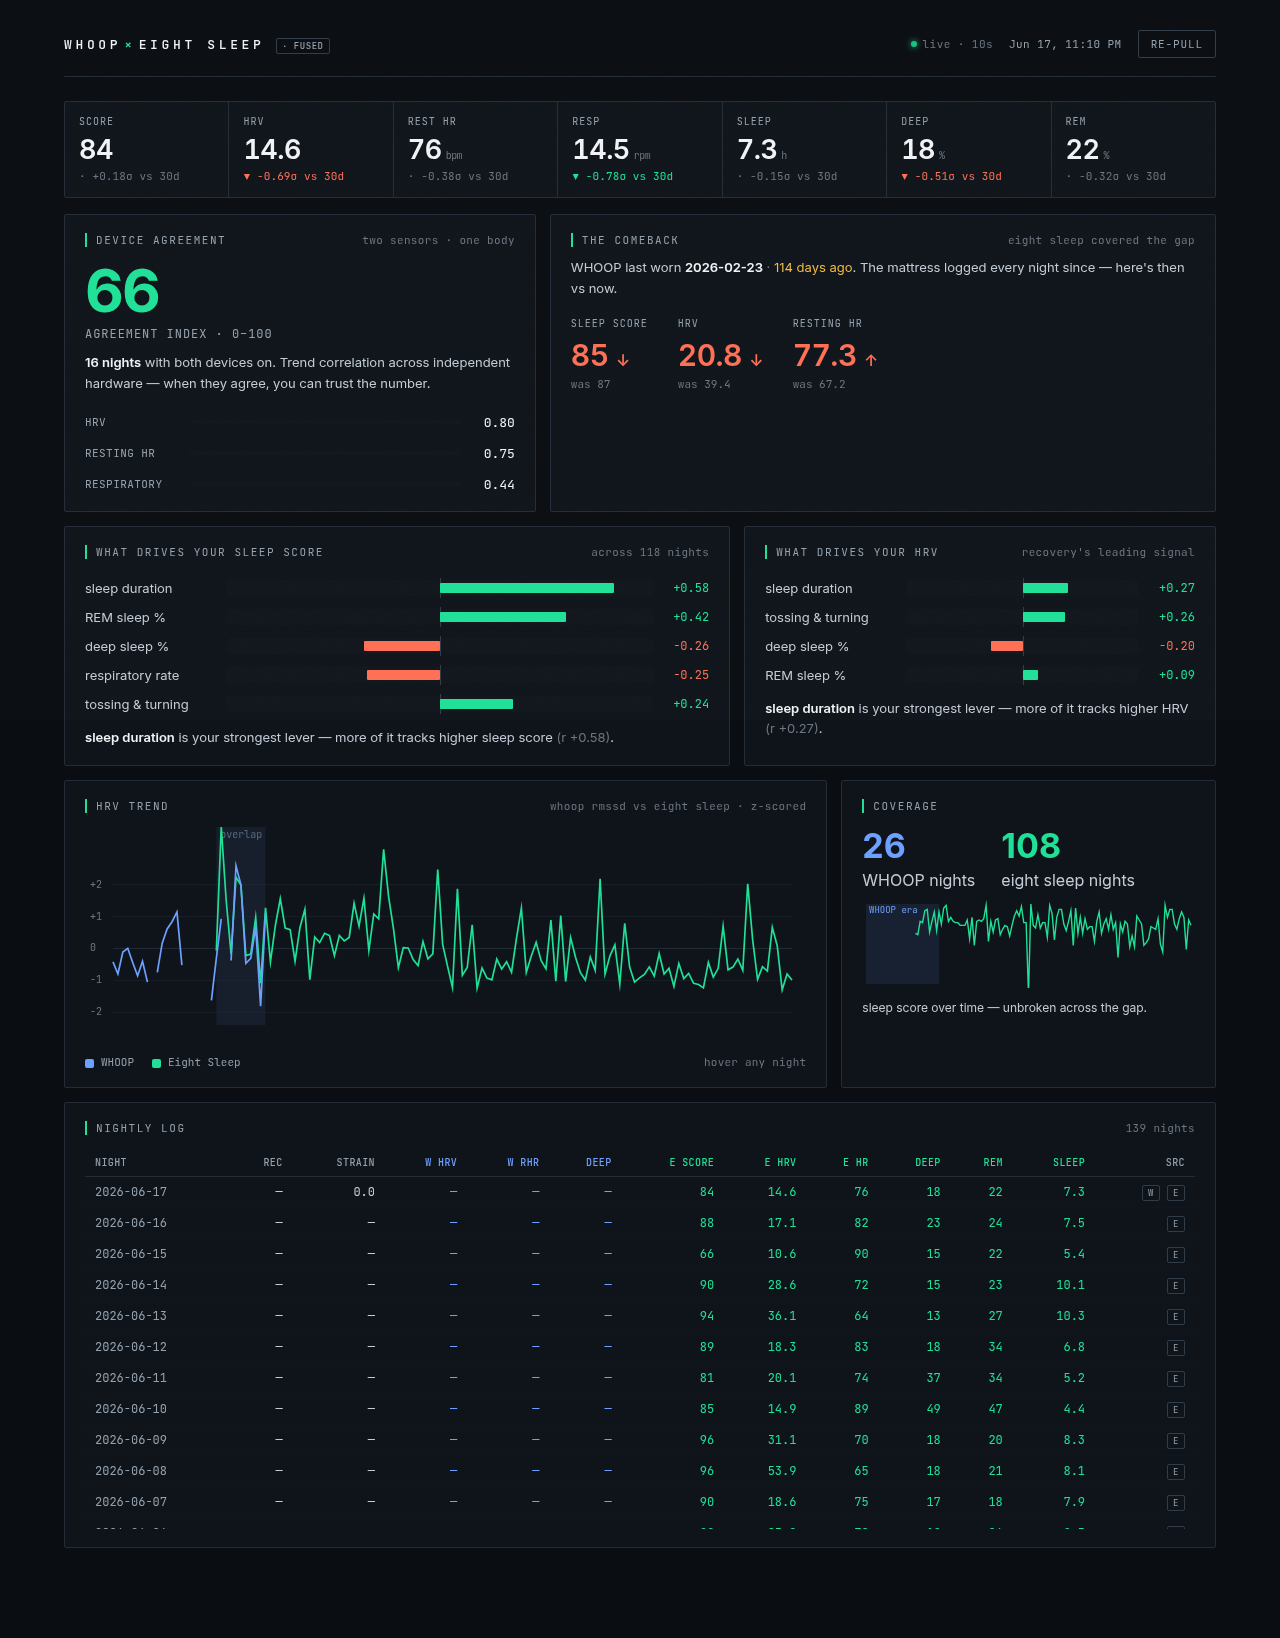
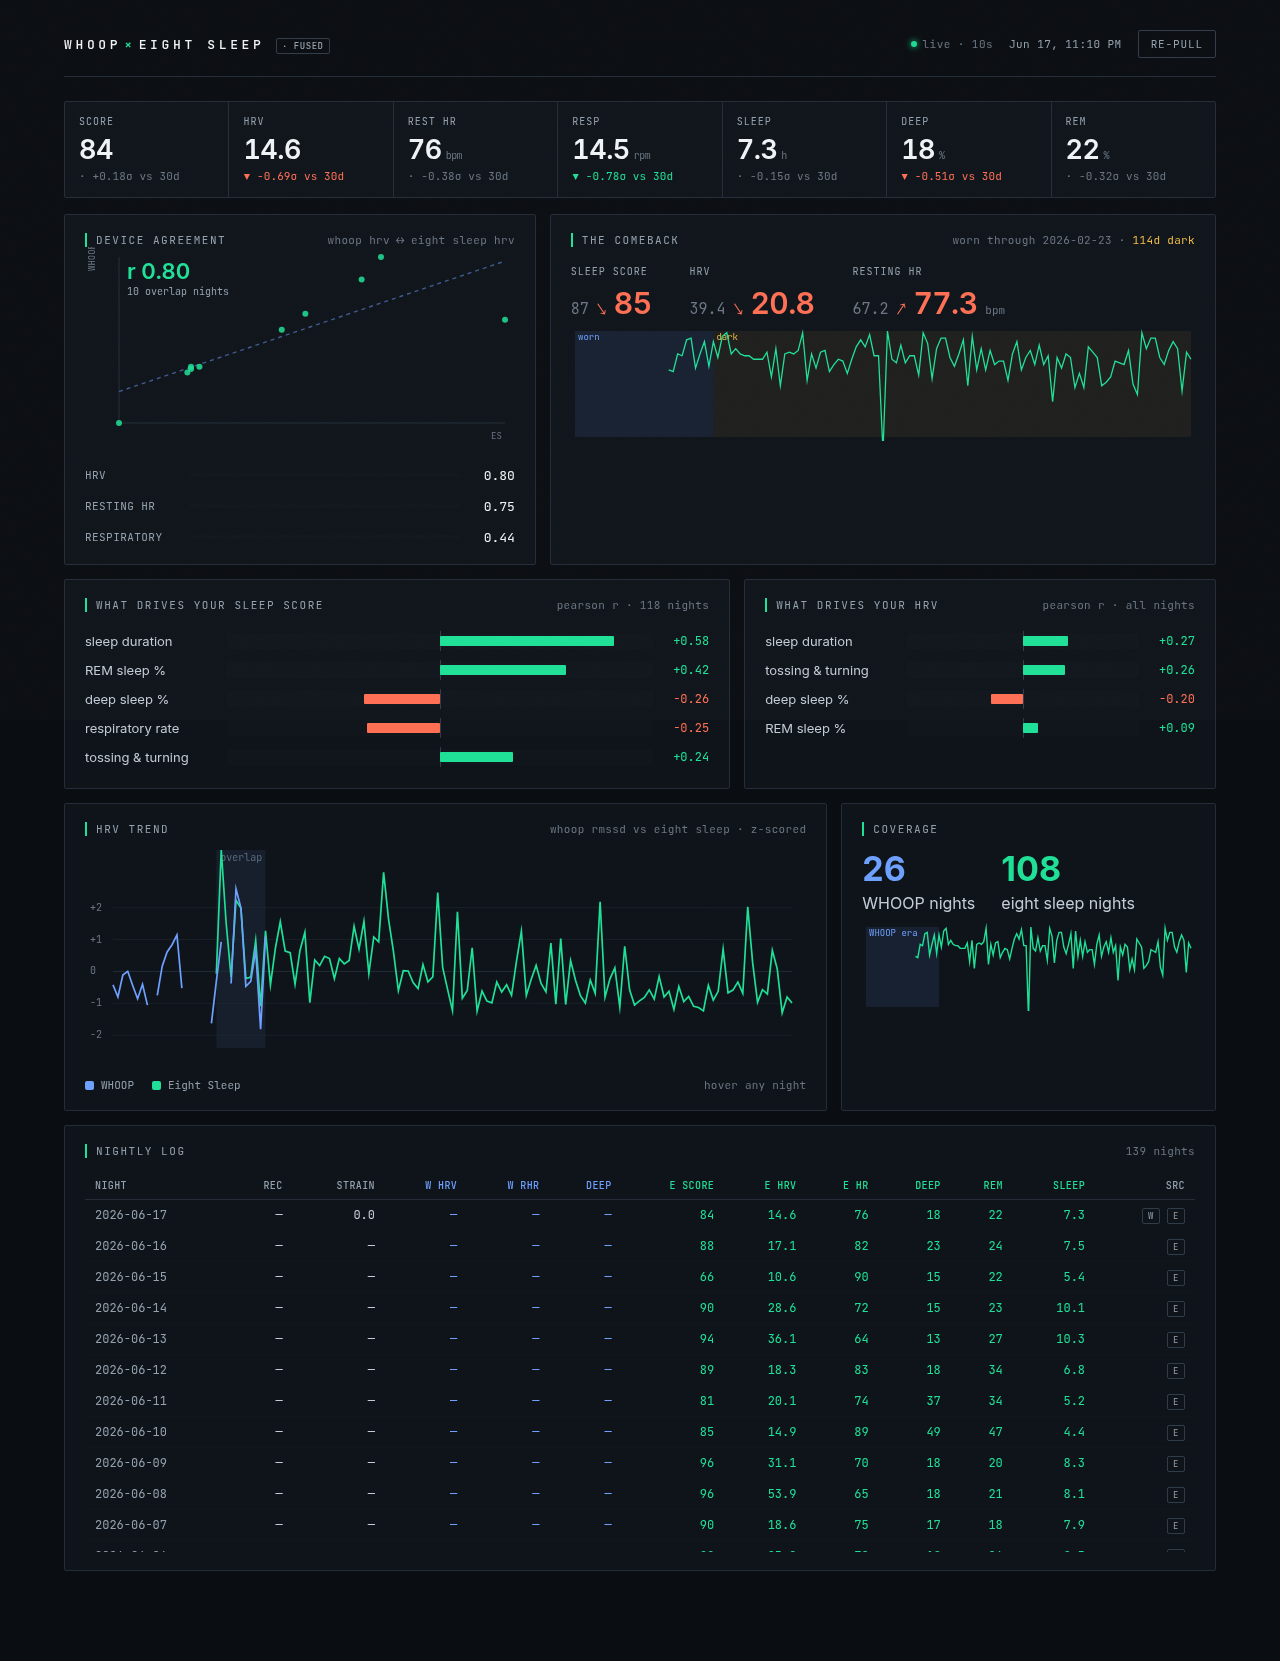
show don't tell: agreement scatter, then->now comeback, worn/dark windows; drop explanatory prose

diff --git a/projects/dashboard/static/index.html b/projects/dashboard/static/index.html
@@ -103,6 +103,11 @@
   .delta .dv { font-size: 30px; font-weight: 600; font-variant-numeric: tabular-nums; margin-top: 7px; letter-spacing: -0.02em; color: var(--ink); }
   .delta .dv .arr { font-size: 16px; }
   .delta .was { font-family: var(--mono); font-size: 11px; color: var(--faint); margin-top: 4px; }
+  .thennow { display: flex; align-items: baseline; gap: 8px; margin-top: 7px; }
+  .thennow .then { font-family: var(--mono); font-size: 15px; color: var(--faint); font-variant-numeric: tabular-nums; }
+  .thennow .ar { font-size: 15px; }
+  .thennow .dv { font-size: 30px; margin-top: 0; }
+  .thennow .u2 { font-family: var(--mono); font-size: 11px; color: var(--faint); }
   .up { color: var(--green) !important; } .down { color: var(--red) !important; } .flat { color: var(--dim) !important; }
 
   /* chart */
@@ -201,9 +206,8 @@ function buildSkeleton(data){
 
     <div class="grid">
       <div class="panel col-5">
-        <div class="label"><span>device agreement</span><span class="hint">two sensors · one body</span></div>
-        <div class="hero"><div class="n" id="agree">—</div><div class="u">agreement index · 0–100</div></div>
-        <div class="sub" id="agree_sub">—</div>
+        <div class="label"><span>device agreement</span><span class="hint">whoop hrv ↔ eight sleep hrv</span></div>
+        <canvas id="scatter" height="200"></canvas>
         <div class="bars">
           ${["hrv","resting_hr","respiratory"].map(k=>`
             <div class="bar-row"><span class="k">${k.replace("_"," ")}</span><span class="track"><span class="fill" id="bar_${k}"></span></span><span class="v" id="barv_${k}">—</span></div>`).join("")}
@@ -211,24 +215,25 @@ function buildSkeleton(data){
       </div>
 
       <div class="panel col-7">
-        <div class="label"><span>the comeback</span><span class="hint">eight sleep covered the gap</span></div>
-        <div class="sub" id="comeback_sub">—</div>
+        <div class="label"><span>the comeback</span><span class="hint" id="gap_hint">—</span></div>
         <div class="delta">
-          ${[["sleep score","ss"],["hrv","hv"],["resting hr","rh"]].map(([lbl,id])=>`
-            <div><div class="dk">${lbl}</div><div class="dv" id="cb_${id}">—</div><div class="was" id="cbw_${id}">—</div></div>`).join("")}
+          ${[["sleep score","ss",""],["hrv","hv",""],["resting hr","rh","bpm"]].map(([lbl,id,u])=>`
+            <div>
+              <div class="dk">${lbl}</div>
+              <div class="thennow"><span class="then" id="cbf_${id}">—</span><span class="ar" id="cba_${id}">→</span><span class="dv" id="cb_${id}">—</span><span class="u2">${u}</span></div>
+            </div>`).join("")}
         </div>
+        <canvas id="cbChart" height="120"></canvas>
       </div>
 
       <div class="panel col-7">
         <div class="label"><span>what drives your sleep score</span><span class="hint" id="drv_n">—</span></div>
         <div class="drivers" id="drv_sleep">${driverSkeleton(5)}</div>
-        <div class="sub" id="drv_sleep_sub">—</div>
       </div>
 
       <div class="panel col-5">
-        <div class="label"><span>what drives your hrv</span><span class="hint">recovery's leading signal</span></div>
+        <div class="label"><span>what drives your hrv</span><span class="hint">pearson r · all nights</span></div>
         <div class="drivers" id="drv_hrv">${driverSkeleton(4)}</div>
-        <div class="sub" id="drv_hrv_sub">—</div>
       </div>
 
       <div class="panel col-8">
@@ -248,7 +253,6 @@ function buildSkeleton(data){
           <div><div class="n" style="font-size:34px;font-weight:700;color:var(--green);line-height:1" id="cov_e">—</div><div class="u" style="margin-top:7px">eight sleep nights</div></div>
         </div>
         <canvas id="scoreChart" height="92"></canvas>
-        <div class="sub muted" style="font-size:12px">sleep score over time — unbroken across the gap.</div>
       </div>
 
       <div class="panel col-12">
@@ -296,32 +300,29 @@ function update(data){
     }
   }
 
-  // agreement
-  const ag=Math.round((trust.overall_agreement||0)*100);
-  setv("agree", ag);
-  setv("agree_sub_x", ""); // noop guard
-  $("#agree_sub").innerHTML = `<b>${trust.overlapping_nights} nights</b> with both devices on. Trend correlation across independent hardware — when they agree, you can trust the number.`;
+  // agreement — the scatter shows the correlation; bars quantify per metric
   for(const k of ["hrv","resting_hr","respiratory"]){
     const c=trust.correlations[k];
-    setw("bar_"+k, c==null?0:Math.round(c*100));
+    setw("bar_"+k, c==null?0:Math.round(Math.abs(c)*100));
     setv("barv_"+k, c==null?"—":c.toFixed(2));
   }
+  drawScatter(nights);
 
-  // comeback
+  // comeback — then → now, shown
   const c=comeback, base=c.baseline_eightsleep_avg, rec=c.recent7_eightsleep_avg;
-  $("#comeback_sub").innerHTML = c.gap
-    ? `WHOOP last worn <b>${c.gap.last_worn_before}</b> <span class="muted">·</span> <span style="color:var(--amber)">${c.gap.days} days ago</span>. The mattress logged every night since — here's then vs now.`
-    : "Both devices active.";
-  setDelta("ss", base.sleep_score, rec.sleep_score, 0, true);
-  setDelta("hv", base.hrv, rec.hrv, 1, true);
-  setDelta("rh", base.hr, rec.hr, 1, false);
+  if(c.gap){
+    const h=document.getElementById("gap_hint");
+    h.innerHTML = `worn through ${c.gap.last_worn_before} · <span style="color:var(--amber)">${c.gap.days}d dark</span>`;
+  }
+  setThenNow("ss", base.sleep_score, rec.sleep_score, 0, true);
+  setThenNow("hv", base.hrv, rec.hrv, 1, true);
+  setThenNow("rh", base.hr, rec.hr, 1, false);
+  drawComeback(nights);
 
-  // drivers
-  setv("drv_n", `across ${drivers.n} nights`);
+  // drivers — ranked bars say it; no sentence
+  setv("drv_n", `pearson r · ${drivers.n} nights`);
   fillDrivers("drv_sleep", drivers.sleep_score_drivers, 5);
   fillDrivers("drv_hrv", drivers.hrv_drivers, 4);
-  $("#drv_sleep_sub").innerHTML = driverNarr(drivers.sleep_score_drivers, "sleep score");
-  $("#drv_hrv_sub").innerHTML = driverNarr(drivers.hrv_drivers, "HRV");
 
   // coverage
   setv("cov_w", c.whoop_active_nights);
@@ -337,14 +338,16 @@ function update(data){
   drawScore(nights);
 }
 
-function setDelta(id, from, to, d, higherGood){
-  const el=document.getElementById("cb_"+id), wel=document.getElementById("cbw_"+id);
-  if(!el)return;
-  if(from==null||to==null){el.className="dv flat";el.textContent=fmt(to,d);wel.textContent="—";return;}
+function setThenNow(id, from, to, d, higherGood){
+  const fEl=document.getElementById("cbf_"+id), aEl=document.getElementById("cba_"+id), nEl=document.getElementById("cb_"+id);
+  if(!nEl)return;
+  fEl.textContent = from==null?"—":(+from).toFixed(d);
+  nEl.textContent = to==null?"—":(+to).toFixed(d);
+  if(from==null||to==null){nEl.className="dv flat";aEl.textContent="→";aEl.className="ar flat";return;}
   const diff=to-from, eps=d===0?0.5:0.05, flat=Math.abs(diff)<eps, up=diff>0, good=higherGood?up:!up;
-  el.className="dv "+(flat?"flat":good?"up":"down");
-  el.innerHTML=`${fmt(to,d)} <span class="arr">${flat?"→":up?"↑":"↓"}</span>`;
-  wel.textContent=`was ${fmt(from,d)}`;
+  const cls=flat?"flat":good?"up":"down";
+  nEl.className="dv "+cls; aEl.className="ar "+cls;
+  aEl.textContent=flat?"→":up?"↗":"↘";
 }
 
 function fillDrivers(containerId, list, max){
@@ -375,6 +378,54 @@ function driverNarr(ds, outcome){
   if(!ds||!ds.length) return "";
   const t=ds[0], dir=t.r>=0?"more":"less";
   return `<b>${t.label}</b> is your strongest lever — ${dir} of it tracks higher ${outcome} <span class="muted">(r ${t.r>=0?"+":""}${t.r.toFixed(2)})</span>.`;
+}
+
+// scatter: WHOOP HRV vs Eight Sleep HRV on overlap nights — correlation, shown
+function drawScatter(nights){
+  const cv=$("#scatter");if(!cv)return;const dpr=devicePixelRatio||1,W=cv.clientWidth,H=200;
+  cv.width=W*dpr;cv.height=H*dpr;const ctx=cv.getContext("2d");ctx.setTransform(dpr,0,0,dpr,0,0);
+  const pts=nights.filter(n=>n.whoop_hrv_ms!=null&&n.es_hrv!=null).map(n=>[n.es_hrv,n.whoop_hrv_ms]);
+  const pad={l:34,r:10,t:10,b:24};const iW=W-pad.l-pad.r,iH=H-pad.t-pad.b;
+  ctx.clearRect(0,0,W,H);
+  if(pts.length<2){ctx.fillStyle="#6b7682";ctx.font="11px 'JetBrains Mono'";ctx.fillText("not enough overlap yet",pad.l,H/2);return;}
+  const xs=pts.map(p=>p[0]),ys=pts.map(p=>p[1]);
+  const xmin=Math.min(...xs),xmax=Math.max(...xs),ymin=Math.min(...ys),ymax=Math.max(...ys);
+  const px=v=>pad.l+iW*(v-xmin)/((xmax-xmin)||1), py=v=>pad.t+iH*(1-(v-ymin)/((ymax-ymin)||1));
+  // axes
+  ctx.strokeStyle="#232c37";ctx.lineWidth=1;ctx.beginPath();ctx.moveTo(pad.l,pad.t);ctx.lineTo(pad.l,pad.t+iH);ctx.lineTo(pad.l+iW,pad.t+iH);ctx.stroke();
+  ctx.fillStyle="#6b7682";ctx.font="9px 'JetBrains Mono'";
+  ctx.fillText("ES",pad.l+iW-14,pad.t+iH+16);ctx.save();ctx.translate(10,pad.t+14);ctx.rotate(-Math.PI/2);ctx.fillText("WHOOP",0,0);ctx.restore();
+  // regression line
+  const n=pts.length,mx=xs.reduce((a,b)=>a+b)/n,my=ys.reduce((a,b)=>a+b)/n;
+  let num=0,den=0;for(let i=0;i<n;i++){num+=(xs[i]-mx)*(ys[i]-my);den+=(xs[i]-mx)**2;}
+  const slope=den?num/den:0,inter=my-slope*mx;
+  ctx.strokeStyle="rgba(110,160,255,0.5)";ctx.lineWidth=1.4;ctx.setLineDash([4,4]);ctx.beginPath();
+  ctx.moveTo(px(xmin),py(slope*xmin+inter));ctx.lineTo(px(xmax),py(slope*xmax+inter));ctx.stroke();ctx.setLineDash([]);
+  // points
+  pts.forEach(p=>{ctx.fillStyle="rgba(31,224,150,0.85)";ctx.beginPath();ctx.arc(px(p[0]),py(p[1]),3,0,7);ctx.fill();});
+  // r value, big, in corner
+  ctx.fillStyle="#1fe096";ctx.font="600 22px Inter,sans-serif";ctx.fillText("r "+(num/Math.sqrt(den*ys.reduce((a,b)=>a+(b-my)**2,0))).toFixed(2),pad.l+8,pad.t+22);
+  ctx.fillStyle="#94a1ad";ctx.font="10px 'JetBrains Mono'";ctx.fillText(pts.length+" overlap nights",pad.l+8,pad.t+38);
+}
+
+// comeback: the gap made visceral — score line with the dark window shaded amber
+function drawComeback(nights){
+  const cv=$("#cbChart");if(!cv)return;const dpr=devicePixelRatio||1,W=cv.clientWidth,H=120;
+  cv.width=W*dpr;cv.height=H*dpr;const ctx=cv.getContext("2d");ctx.setTransform(dpr,0,0,dpr,0,0);
+  const pad={l:4,r:4,t:10,b:4},iW=W-pad.l-pad.r,iH=H-pad.t-pad.b;
+  const X=i=>pad.l+iW*i/Math.max(1,nights.length-1),Y=v=>pad.t+iH*(1-(v-40)/60);
+  ctx.clearRect(0,0,W,H);
+  // WHOOP era (had recovery) in blue; the dark stretch after, amber wash
+  const wIdx=nights.map((n,i)=>n.whoop_recovery!=null?i:null).filter(i=>i!=null);
+  if(wIdx.length){
+    const lastW=Math.max(...wIdx);
+    ctx.fillStyle="rgba(110,160,255,0.10)";ctx.fillRect(X(Math.min(...wIdx)),pad.t,Math.max(2,X(lastW)-X(Math.min(...wIdx))),iH);
+    ctx.fillStyle="rgba(240,187,68,0.07)";ctx.fillRect(X(lastW),pad.t,X(nights.length-1)-X(lastW),iH);
+    ctx.fillStyle="#6ea0ff";ctx.font="9px 'JetBrains Mono'";ctx.fillText("worn",X(Math.min(...wIdx))+3,pad.t+9);
+    ctx.fillStyle="#f0bb44";ctx.fillText("dark",X(lastW)+3,pad.t+9);
+  }
+  ctx.beginPath();let st=false;nights.forEach((n,i)=>{if(n.es_score==null)return;const p=[X(i),Y(n.es_score)];if(!st){ctx.moveTo(...p);st=true;}else ctx.lineTo(...p);});
+  ctx.strokeStyle="#1fe096";ctx.lineWidth=1.3;ctx.stroke();
 }
 
 function rowHtml(n){